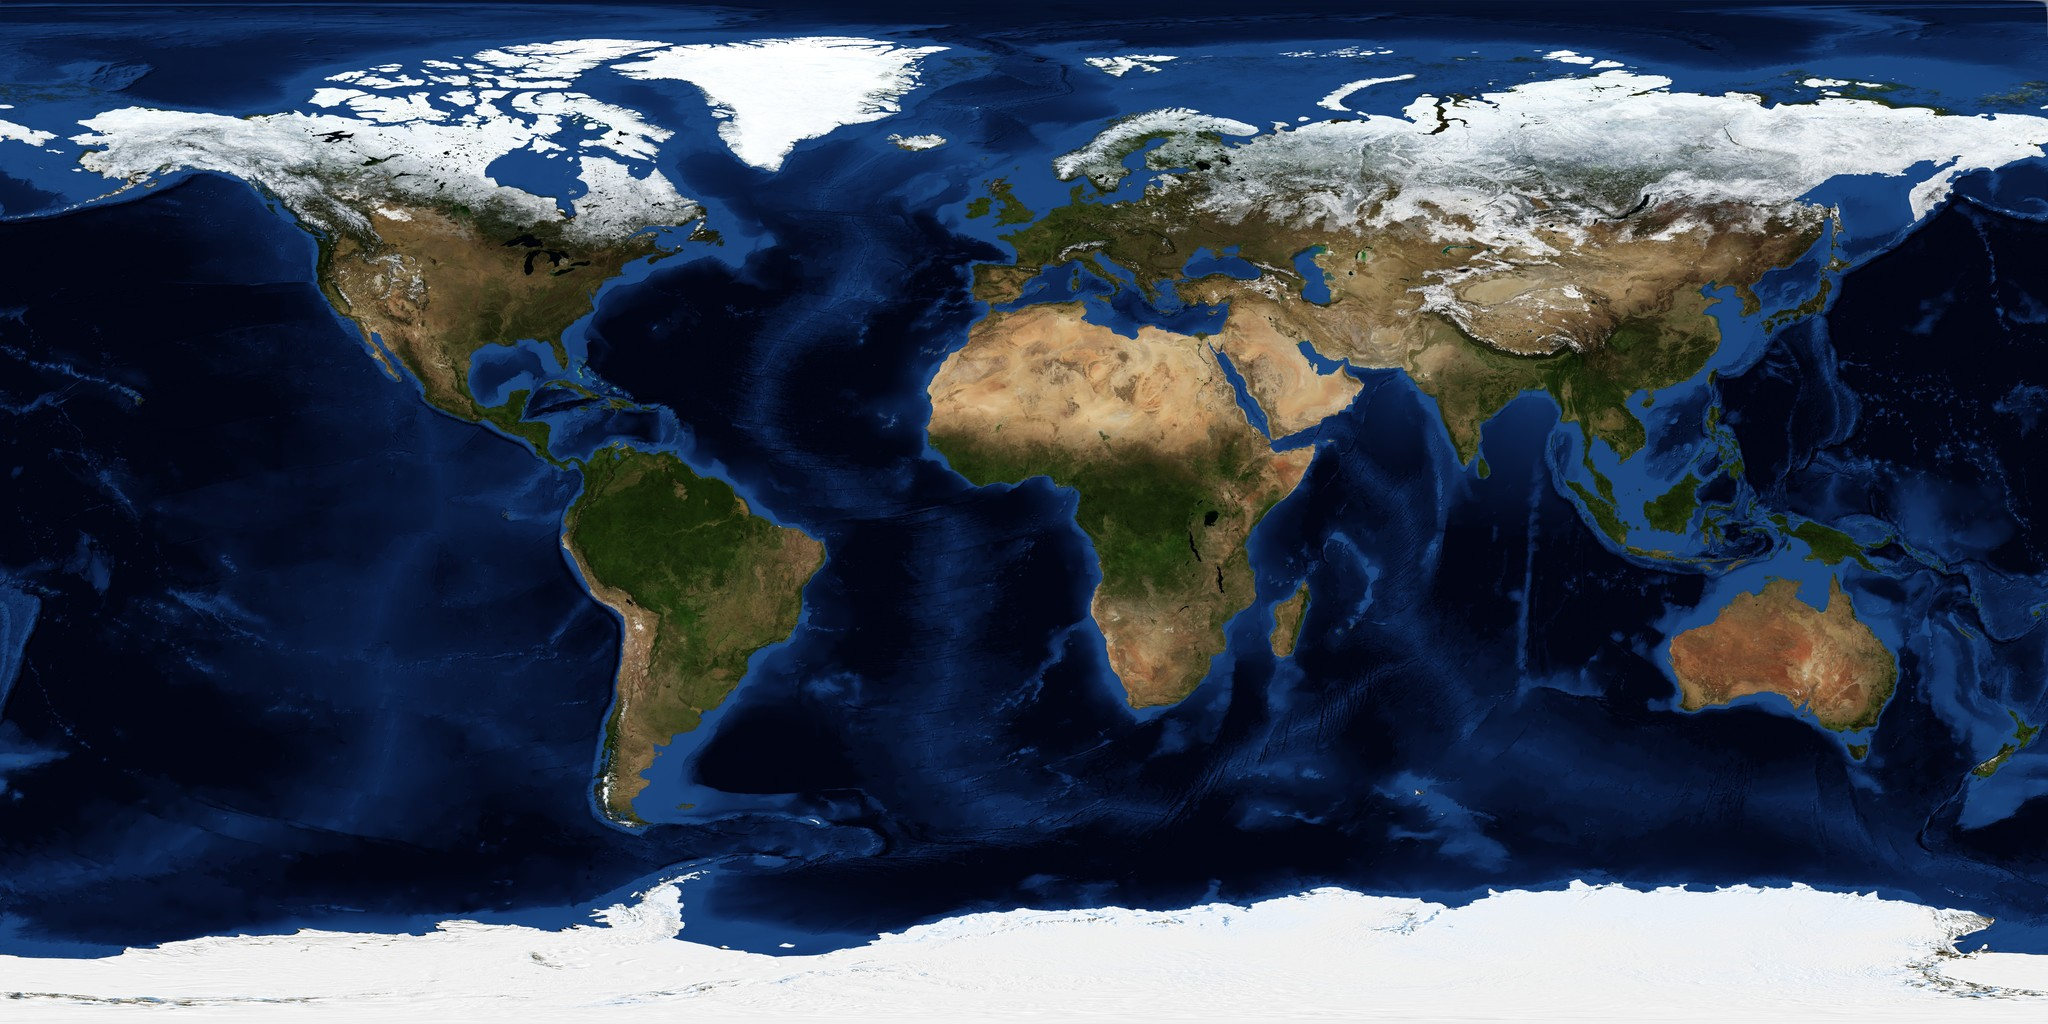
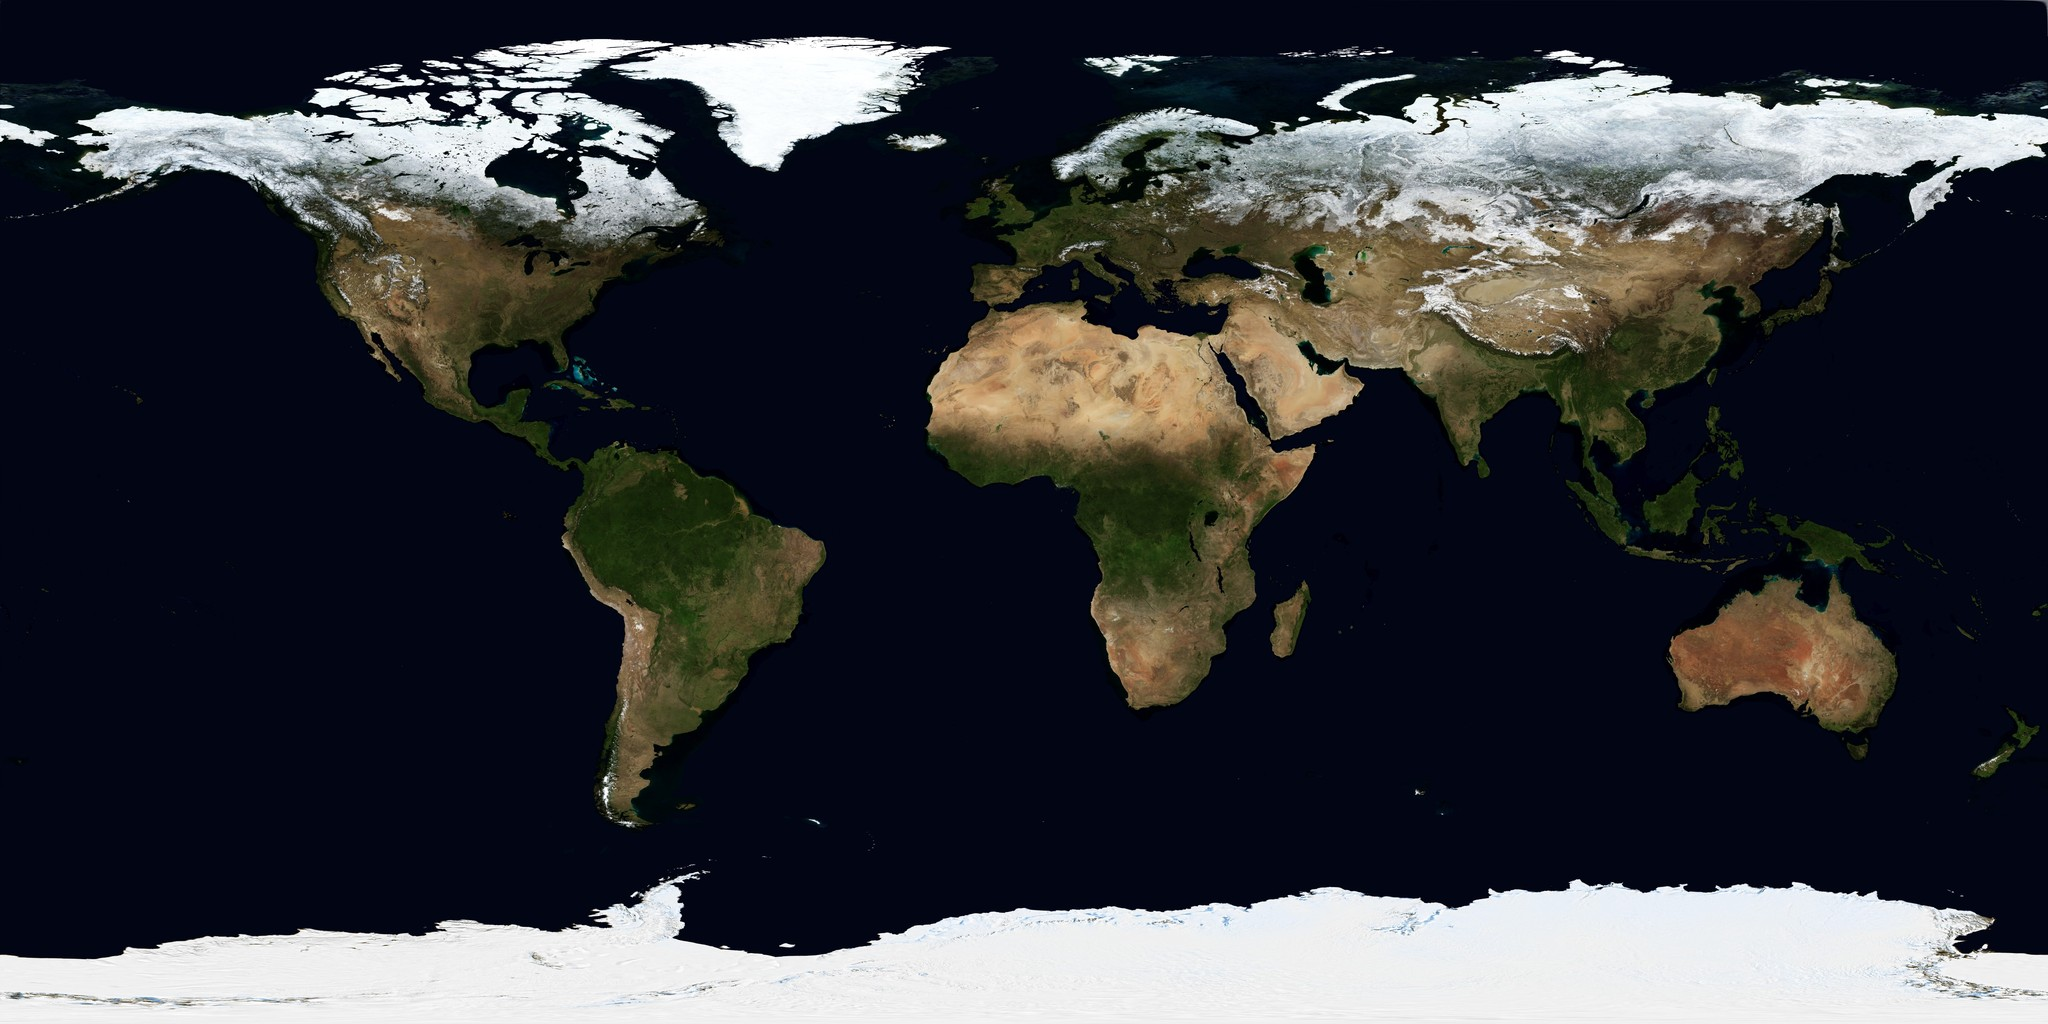
Clouds: broken-cloud coverage, two-stream-consistent lighting, no texel polygons; plain Blue Marble
- Coverage map read as a broken field: a fraction R/0.57 of each texel is cloud of tau >= 10,
  placed where the billow noise exceeds its (1 - f) quantile (CDF measured from the volume).
  Bicubic B-spline lookup; octaves fade in by pixel footprint; edges widen with the footprint.
- Multiple scattering: the 4-octave Wrenninge sum saturated at R ~ 0.22 for any tau
  (measured), so thick clouds were ~3x too dark. Replaced by single scattering plus a diffuse
  source calibrated so a slab reflects tau/(tau + 7.5), the relation that inverted the map
  (verified numerically for tau = 1..30).
- Tile ocean: dark aerial-imagery water is cut out above 30 km so the globe's ocean (with
  glint) shows; no more dark patches while tiles load.
- Day map: Blue Marble NG without relief shading or bathymetry (sea floor is not visible from
  orbit).

diff --git a/web/src/render/clouds.ts b/web/src/render/clouds.ts
@@ -3,16 +3,20 @@
 //
 // - **Where.** Coverage is NASA Blue Marble: Clouds (Visible Earth 57747; MODIS
 //   composite), looked up by body-fixed latitude and longitude so it turns with the
-//   Earth. A tiling 3D Worley noise volume erodes it for structure below the map's
-//   texel size.
+//   Earth, with a B-spline bicubic filter (Sigg & Hadwiger 2005, GPU Gems 2 ch. 20) so the
+//   texels never show as polygons. A tiling 3D Worley noise volume adds billows below the
+//   map's texel size at three scales (60, 15, 4 km), each faded in only where it spans
+//   several pixels (no aliasing from orbit, full detail up close). The modulation is
+//   normalised to unit mean, so each texel keeps the map's reflectance on average.
 // - **Profile.** The base is at 1.5 km. The top rises with coverage, from 3 km (thin
 //   cumulus) to 12 km (deep convection).
 // - **Optics.** Each column's optical depth reproduces the map's reflectance with a
 //   two-stream relation (see cloudSigma), spread over the height profile.
 //   Single-scattering albedo ≈ 1. Phase is a dual-lobe Henyey–Greenstein (g = 0.8 / −0.3).
-// - **Multiple scattering.** Approximated with Wrenninge's octave method (M. Wrenninge et
-//   al., "Oz: The Great and Volumetric", SIGGRAPH 2013 talk): Σ aⁱ σ_s T(bⁱτ) P(cⁱg) with
-//   a = b = c = ½.
+// - **Multiple scattering.** Single scattering exactly, plus a diffuse source calibrated to
+//   two-stream so a column reflects what the map says it does (see the shader). Wrenninge's
+//   4-octave method, used before, saturated at R ≈ 0.22 for any τ (measured), so thick
+//   clouds came out ~3× too dark.
 // - **Sun.** Light comes through the cloud (a short light march) and through the
 //   atmosphere (the transmittance LUT, which also gives the Earth's shadow and reddened
 //   sunsets).
@@ -31,8 +35,8 @@ import { PRE_EXPOSURE } from "./units";
 
 const NOISE_SIZE = 64;
 
-/** Tileable 3D Worley noise (3 octaves, inverted, 0–1), R8. Deterministic. */
-function worleyVolume(n: number): THREE.Data3DTexture {
+/** Tileable 3D Worley noise (3 octaves, inverted, 0–1), R8, and its mean. Deterministic. */
+function worleyVolume(n: number): { tex: THREE.Data3DTexture; mean: number; quant: THREE.DataTexture } {
   const data = new Uint8Array(n * n * n);
   let seed = 1234567;
   const rand = () => ((seed = (seed * 1103515245 + 12345) & 0x7fffffff) / 0x7fffffff);
@@ -65,6 +69,44 @@ function worleyVolume(n: number): THREE.Data3DTexture {
         const f = 0.625 * (1 - worley(u, v, w, octaves[0]!)) + 0.25 * (1 - worley(u, v, w, octaves[1]!)) + 0.125 * (1 - worley(u, v, w, octaves[2]!));
         data[(z * n + y) * n + x] = Math.round(Math.min(1, f) * 255);
       }
+  let sum = 0;
+  for (const v of data) sum += v;
+  // Quantiles of the billow field for the coverage threshold: row 0 the 60 km octave alone,
+  // row 1 the 60/15 km mix (0.6/0.4) used up close. Sampled at random points (trilinear,
+  // tiling); the two scales of one tiling volume are close to independent.
+  const tri = (x: number, y: number, z: number) => {
+    const fx = x * n - 0.5, fy = y * n - 0.5, fz = z * n - 0.5;
+    const x0 = Math.floor(fx), y0 = Math.floor(fy), z0 = Math.floor(fz);
+    const tx = fx - x0, ty = fy - y0, tz = fz - z0;
+    const at = (i: number, j: number, k: number) => data[(((k % n) + n) % n * n + (((j % n) + n) % n)) * n + (((i % n) + n) % n)]! / 255;
+    let v = 0;
+    for (let c = 0; c < 8; c++) {
+      const dx = c & 1, dy = (c >> 1) & 1, dz = c >> 2;
+      v += at(x0 + dx, y0 + dy, z0 + dz) * (dx ? tx : 1 - tx) * (dy ? ty : 1 - ty) * (dz ? tz : 1 - tz);
+    }
+    return v;
+  };
+  const M = 60000;
+  const one: number[] = [], mix: number[] = [];
+  for (let i = 0; i < M; i++) {
+    const x = rand(), y = rand(), z = rand();
+    const a = tri(x, y, z);
+    one.push(a);
+    mix.push(0.6 * a + 0.4 * tri(x * 4, y * 4, z * 4));
+  }
+  one.sort((a, b) => a - b);
+  mix.sort((a, b) => a - b);
+  const W = 256;
+  const cdf = new Float32Array(W * 2 * 4);
+  for (let i = 0; i < W; i++) {
+    // Threshold for cover fraction f = i/(W−1): the (1 − f) quantile.
+    const q = Math.min(M - 1, Math.floor((1 - i / (W - 1)) * (M - 1)));
+    cdf[i * 4] = i === 0 ? 2 : one[q]!;
+    cdf[(W + i) * 4] = i === 0 ? 2 : mix[q]!;
+  }
+  const quant = new THREE.DataTexture(cdf, W, 2, THREE.RGBAFormat, THREE.FloatType);
+  quant.minFilter = quant.magFilter = THREE.LinearFilter;
+  quant.needsUpdate = true;
   const t = new THREE.Data3DTexture(data, n, n, n);
   t.format = THREE.RedFormat;
   t.type = THREE.UnsignedByteType;
@@ -72,7 +114,7 @@ function worleyVolume(n: number): THREE.Data3DTexture {
   t.minFilter = t.magFilter = THREE.LinearFilter;
   t.unpackAlignment = 1;
   t.needsUpdate = true;
-  return t;
+  return { tex: t, mean: sum / data.length / 255, quant };
 }
 
 const FS = /* glsl */ `
@@ -96,6 +138,8 @@ const FS = /* glsl */ `
   uniform float frame;
   uniform float pixelAngle;
   uniform float texelMeters;
+  uniform float noiseMean;
+  uniform sampler2D noiseQuant;
   varying vec2 vUv;
   ${DEPTH_GLSL}
   #define ATMO_LUTS
@@ -103,9 +147,41 @@ const FS = /* glsl */ `
 
   const float CLOUD_BASE = 1500.0;
   const float CLOUD_TOP_MAX = 12000.0;
-  const float NOISE_SCALE = 1.0 / 24000.0; // noise period 24 km
+  // Billow periods (m).
+  const vec3 NOISE_PERIOD = vec3(60000.0, 15000.0, 4000.0);
+  // Broken-cloud model: cloudy parts have τ ≥ TAU_C, reflectance RC = τ/(τ + 7.5) (same
+  // two-stream relation), so a texel of mean reflectance R < RC is a fraction R/RC cloud.
+  const float RC = 0.57;
+
+  // B-spline bicubic lookup with four bilinear taps (Sigg & Hadwiger 2005).
+  vec4 cubicW(float v) {
+    vec4 n = vec4(1.0, 2.0, 3.0, 4.0) - v;
+    vec4 s = n * n * n;
+    float x = s.x, y = s.y - 4.0 * s.x, z = s.z - 4.0 * s.y + 6.0 * s.x;
+    return vec4(x, y, z, 6.0 - x - y - z) / 6.0;
+  }
+  float coverageAt(vec2 uv, float lod) {
+    float l = floor(lod);
+    vec2 size = vec2(textureSize(coverageTex, int(l)));
+    vec2 p = uv * size - 0.5;
+    vec2 f = fract(p);
+    p -= f;
+    vec4 xc = cubicW(f.x), yc = cubicW(f.y);
+    vec4 c = p.xxyy + vec2(-0.5, 1.5).xyxy;
+    vec4 sw = vec4(xc.xz + xc.yw, yc.xz + yc.yw);
+    vec4 off = (c + vec4(xc.yw, yc.yw) / sw) / size.xxyy;
+    float s0 = textureLod(coverageTex, off.xz, l).r, s1 = textureLod(coverageTex, off.yz, l).r;
+    float s2 = textureLod(coverageTex, off.xw, l).r, s3 = textureLod(coverageTex, off.yw, l).r;
+    float sx = sw.x / (sw.x + sw.y), sy = sw.z / (sw.z + sw.w);
+    return mix(mix(s3, s2, sx), mix(s1, s0, sx), sy);
+  }
 
   float hash(vec2 p) { return fract(sin(dot(p, vec2(12.9898, 78.233))) * 43758.5453); }
+
+  // Backscatter of the cloud phase function, π·P(180°)/2 ≈ 0.105 (P from the dual-lobe
+  // HG below, evaluated at μ = −1), and the diffuse decay with light depth.
+  const float SS_PHASE = 0.066776;
+  const float MS_K = 0.15;
 
   float hg(float mu, float g) {
     float g2 = g * g;
@@ -121,32 +197,63 @@ const FS = /* glsl */ `
   // asymmetry 0.85; Bohren 1987, Am. J. Phys. 55:524), hence τ = 7.5·R/(1 − R). The profile
   // distributes τ over the column. "detail" (0–1) adds noise erosion near the camera and
   // fades it out where it would alias.
-  float cloudSigma(vec3 q, float detail, float lod) {
+  // Octave weight: on only where the period spans ≥ ~8 pixels (no aliasing).
+  float octave(float period, float fp) { return smoothstep(4.0, 12.0, period / max(fp, 1.0)); }
+
+  // fp: the pixel footprint (m) at q, for scale-aware detail; fine = include the 4 km octave.
+  // Returns (σ, column τ of the cloudy part).
+  vec2 cloudSample(vec3 q, float fp, float lod, bool fine) {
     float r = length(q);
     float h = r - rGround;
-    if (h < CLOUD_BASE || h > CLOUD_TOP_MAX) return 0.0;
+    if (h < CLOUD_BASE || h > CLOUD_TOP_MAX) return vec2(0.0);
     vec3 bf = toBodyFixed * q;
     float lon = atan(bf.y, bf.x);
     float lat = asin(clamp(bf.z / r, -1.0, 1.0));
     vec2 uv = vec2(lon / (2.0 * PI) + 0.5, lat / PI + 0.5);
     // Explicit LOD: derivatives are undefined inside the march loop.
-    float raw = textureLod(coverageTex, uv, lod).r;
+    float raw = coverageAt(uv, lod);
     // ~0.08 is the clear-sky floor of the composite.
     float R = clamp((raw - 0.08) / 0.88, 0.0, 0.92);
-    if (R <= 0.0) return 0.0;
-    float tau = 7.5 * R / (1.0 - R);
-    float top = CLOUD_BASE + 1000.0 + (CLOUD_TOP_MAX - CLOUD_BASE - 1000.0) * smoothstep(0.1, 0.9, R);
+    if (R <= 0.0) return vec2(0.0);
+    float f = min(R / RC, 1.0);
+    float Rcl = max(R, RC);
+    float tau = 7.5 * Rcl / (1.0 - Rcl);
+    // Where in the texel the cloud is: the billow field above its (1 − f) quantile.
+    float w60 = octave(NOISE_PERIOD.x, fp), w15 = octave(NOISE_PERIOD.y, fp);
+    float cov = f, excess = 0.5;
+    if (w60 > 0.0) {
+      float n60 = texture(noiseTex, bf / NOISE_PERIOD.x).r;
+      float n15 = w15 > 0.0 ? texture(noiseTex, bf / NOISE_PERIOD.y).r : n60;
+      float nb = mix(n60, 0.6 * n60 + 0.4 * n15, w15);
+      float fu = f * (255.0 / 256.0) + 0.5 / 256.0;
+      float th = mix(texture(noiseQuant, vec2(fu, 0.25)).r, texture(noiseQuant, vec2(fu, 0.75)).r, w15);
+      // Edge softness at least the noise's change across a pixel (anti-aliasing).
+      float edge = 0.03 + 0.1 * (1.0 - w15) + 0.6 * fp / mix(NOISE_PERIOD.x, NOISE_PERIOD.y, w15);
+      float c = smoothstep(th - edge, th + edge, nb);
+      cov = mix(f, c, w60);
+      excess = mix(0.5, clamp((nb - th) / max(1.0 - th, 0.05), 0.0, 1.0), w60);
+    }
+    if (cov <= 0.0) return vec2(0.0);
+    // Tops rise with the texel's reflectance and tower where the billows are strongest.
+    float top = CLOUD_BASE + (1000.0 + (CLOUD_TOP_MAX - CLOUD_BASE - 1000.0) * smoothstep(0.1, 0.9, R)) * (0.45 + 1.1 * excess);
+    top = min(top, CLOUD_TOP_MAX);
     float hn = (h - CLOUD_BASE) / (top - CLOUD_BASE);
-    if (hn >= 1.0) return 0.0;
+    if (hn >= 1.0) return vec2(0.0);
     // Profile with unit mean over the column: quick rise, rounded top.
     float profile = smoothstep(0.0, 0.12, hn) * (1.0 - smoothstep(0.45, 1.0, hn)) / 0.58;
-    float sigma = tau / (top - CLOUD_BASE) * profile;
-    if (detail > 0.0) {
-      float n = texture(noiseTex, bf * NOISE_SCALE).r * 0.7 + texture(noiseTex, bf * NOISE_SCALE * 3.7).r * 0.3;
-      sigma *= mix(1.0, clamp(2.2 * n - 0.6, 0.0, 2.0), detail * (1.0 - 0.5 * R));
+    float sigma = tau / (top - CLOUD_BASE) * profile * cov;
+    // Close up: 4 km billows erode the surfaces (unit mean, so τ is kept on average).
+    if (fine) {
+      float w4 = octave(NOISE_PERIOD.z, fp);
+      if (w4 > 0.0) {
+        float n4 = texture(noiseTex, bf / NOISE_PERIOD.z).r;
+        float c4 = 0.6 * noiseMean;
+        sigma *= mix(1.0, max(0.0, (n4 - c4) / (noiseMean - c4)), 0.6 * w4);
+      }
     }
-    return sigma;
+    return vec2(sigma, tau);
   }
+  float cloudSigma(vec3 q, float fp, float lod, bool fine) { return cloudSample(q, fp, lod, fine).x; }
 
   void main() {
     vec4 scene = texture2D(colorTex, vUv);
@@ -197,31 +304,35 @@ const FS = /* glsl */ `
       t += ds;
       if (tc > t1) break;
       vec3 q = o + dir * tc;
-      float detail = 1.0 - smoothstep(20000.0, 120000.0, tc);
+      float fp = tc * pixelAngle;
       // Mip level from the pixel footprint vs. the map's texel size at the equator.
-      float lod = max(log2(tc * pixelAngle / texelMeters), 0.0);
-      float sigma = cloudSigma(q, detail, lod);
+      float lod = max(log2(fp / texelMeters), 0.0);
+      vec2 cs = cloudSample(q, fp, lod, true);
+      float sigma = cs.x, tauCol = cs.y;
       if (sigma <= 0.0) continue;
       // Light march toward the Sun through the cloud.
       float od = 0.0;
       float lds = 600.0;
       for (int j = 0; j < 8; j++) {
         if (j >= lightSteps) break;
-        od += cloudSigma(q + sunDir * (lds * (float(j) + 0.5)), detail, lod) * lds;
+        od += cloudSigma(q + sunDir * (lds * (float(j) + 0.5)), fp, lod, false) * lds;
         lds *= 1.6;
       }
       float rq = length(q);
       vec3 tAtm = transmittanceToTop(rq, dot(q, sunDir) / rq);
-      // Wrenninge multiple-scattering octaves.
-      float ms = 0.0;
-      float a = 1.0, b = 1.0, c = 1.0;
-      for (int k = 0; k < 4; k++) {
-        ms += a * exp(-b * od) * phase(mu, c);
-        a *= 0.5; b *= 0.5; c *= 0.5;
-      }
+      // Single scattering (ϖ ≈ 1) plus a diffuse multiple-scattering source sized so that a
+      // plane-parallel column of optical depth τ reflects R = τ/(τ + 7.5), the same two-stream
+      // relation that inverted the map (sun and view at zenith; Bohren 1987). For a slab,
+      // ∫e^(−t)·A·e^(−k·t)dt = A(1 − e^(−(1+k)τ))/(1+k) must supply R − SS, with
+      // SS = π·P(180°)·(1 − e^(−2τ))/2. The e^(−k·od) factor (k = 0.15) darkens cloud
+      // sides and bases facing away from the Sun.
+      float Rcol = tauCol / (tauCol + 7.5);
+      float SS = PI * SS_PHASE * (1.0 - exp(-2.0 * tauCol)) * 0.5;
+      float A = max(Rcol - SS, 0.0) * (1.0 + MS_K) / max(1.0 - exp(-(1.0 + MS_K) * tauCol), 1e-4);
+      float src = PI * phase(mu, 1.0) * exp(-od) + A * exp(-MS_K * od);
       // Skylight: a few percent of the attenuated sunlight, isotropic.
-      vec3 ambient = tAtm * 0.035 + vec3(0.004, 0.006, 0.01) * smoothstep(-0.1, 0.2, dot(q / rq, sunDir));
-      vec3 S = PI * sunE * (tAtm * ms + ambient);
+      vec3 ambient = PI * (tAtm * 0.035 + vec3(0.004, 0.006, 0.01) * smoothstep(-0.1, 0.2, dot(q / rq, sunDir)));
+      vec3 S = sunE * (tAtm * src + ambient);
       float stepT = exp(-sigma * ds);
       // Energy-conserving integration over the step (Hillaire 2015, "Physically based
       // and unified volumetric rendering in Frostbite").
@@ -250,13 +361,16 @@ export class CloudPass {
     coverage.wrapT = THREE.ClampToEdgeWrapping;
     coverage.colorSpace = THREE.NoColorSpace;
     coverage.anisotropy = 8;
+    const noise = worleyVolume(NOISE_SIZE);
     this.mat = new THREE.ShaderMaterial({
       glslVersion: THREE.GLSL3,
       uniforms: {
         colorTex: { value: null },
         depthTex: { value: null },
         coverageTex: { value: coverage },
-        noiseTex: { value: worleyVolume(NOISE_SIZE) },
+        noiseTex: { value: noise.tex },
+        noiseMean: { value: noise.mean },
+        noiseQuant: { value: noise.quant },
         transmittanceLut: { value: null },
         multiscatterLut: { value: null },
         camWorld: { value: new THREE.Matrix4() },

diff --git a/web/src/render/earthTiles.ts b/web/src/render/earthTiles.ts
@@ -101,6 +101,11 @@ class BingCredits {
   }
 }
 
+/** Linear luminance below which blue-dominant imagery counts as open ocean. */
+const OCEAN_MAX_LUM = 0.05;
+/** Camera altitude (m) above which tile ocean is cut out to show the globe's ocean. */
+const OCEAN_CUT_ALT = 30_000;
+
 export class EarthTiles {
   /** Earth-centred, body-fixed anchor (matrix set every frame). */
   readonly anchor = new THREE.Group();
@@ -110,6 +115,7 @@ export class EarthTiles {
     sunDir: { value: new THREE.Vector3(1, 0, 0) },
     sunE: { value: 1 },
     opacity: { value: 1 },
+    oceanCut: { value: 0 },
   };
   private materials = new Set<THREE.ShaderMaterial>();
   /** Current blend weight (0 = hidden, no requests). */
@@ -178,6 +184,32 @@ export class EarthTiles {
         m.roughness = 1;
         m.metalness = 0;
       }
+      // Open ocean: the aerial imagery's water is a flat dark blue, far darker than the
+      // globe's ocean (Blue Marble colour plus the GGX Sun glint) and patchy while tiles
+      // load. From high up, let the globe show through there: discard dark, blue-dominant
+      // texels after the overlay is applied. (Classification by colour, not height: ion
+      // terrain is ellipsoidal, so the sea surface sits at the geoid, ±100 m.)
+      const prev = m.onBeforeCompile;
+      const oceanCut = this.shared.oceanCut;
+      m.onBeforeCompile = (sh, r) => {
+        prev.call(m, sh, r);
+        sh.uniforms.oceanCut = oceanCut;
+        sh.fragmentShader = sh.fragmentShader
+          .replace("#include <common>", "#include <common>\nuniform float oceanCut;")
+          .replace(
+            "#include <alphamap_fragment>",
+            `#include <alphamap_fragment>
+            if (oceanCut > 0.5) {
+              vec3 oc = diffuseColor.rgb;
+              float ol = dot(oc, vec3(0.2126, 0.7152, 0.0722));
+              if (ol < OCEAN_MAX_LUM && oc.b > oc.g && oc.g >= 0.8 * oc.r) discard;
+            }`,
+          );
+      };
+      const key = m.customProgramCacheKey.bind(m);
+      m.customProgramCacheKey = () => key() + "|oceanCut";
+      m.defines = { ...(m.defines ?? {}), OCEAN_MAX_LUM: OCEAN_MAX_LUM.toFixed(4) };
+      m.needsUpdate = true;
       this.terrainMaterials.add(m);
     });
   }
@@ -239,6 +271,9 @@ export class EarthTiles {
     this.shared.sunDir.value.copy(sunDir);
     this.shared.sunE.value = sunE;
     this.shared.opacity.value = a;
+    // Below ~30 km the 2 km globe inset would show as a step at the coast: keep the
+    // imagery's water there.
+    this.shared.oceanCut.value = altitude > OCEAN_CUT_ALT ? 1 : 0;
     for (const m of this.materials) {
       m.transparent = a < 1;
     }

diff --git a/tools/assets/prepare_textures.py b/tools/assets/prepare_textures.py
@@ -3,7 +3,8 @@
     python -I tools/assets/prepare_textures.py <download_dir> <out_dir> [--full]
 
 Inputs (download_dir):
-  world.topo.bathy.200411.3x5400x2700.jpg   Blue Marble NG, November 2004
+  world.200411.3x5400x2700.jpg              Blue Marble NG, November 2004 (no relief shading,
+                                            no bathymetry: the ocean looks as from orbit)
   BlackMarble_2016_3km.jpg                  Black Marble 2016 night lights (color)
   milkyway_2020_4k.exr                      NASA SVS Deep Star Maps 2020, Milky Way without stars
 Outputs (out_dir):
@@ -26,7 +27,7 @@ def save(img, name, q=90):
     img.save(f"{out}/{name}", quality=q, optimize=True, progressive=True)
     print("wrote", name, img.size)
 
-day = Image.open(f"{src}/world.topo.bathy.200411.3x5400x2700.jpg").convert("RGB")
+day = Image.open(f"{src}/world.200411.3x5400x2700.jpg").convert("RGB")
 save(day.resize((2048, 1024), Image.LANCZOS), "earth_day_2048.jpg")
 if full:
     save(day, "earth_day_5400.jpg", 92)

diff --git a/CREDITS.md b/CREDITS.md
@@ -74,8 +74,8 @@ Used offline by `tools/ephem-build` to produce the shipped `.rseph` Chebyshev fi
 - **License:** U.S. Government work (NRL), public domain in the U.S. The C translation by D. Brodowski was **not** used: it carries no license grant.
 - **Retrieved:** 2026-10-11
 
-### Earth day texture: Blue Marble Next Generation (November 2004, topography + bathymetry)
-- **Source:** https://eoimages.gsfc.nasa.gov/images/imagerecords/73000/73884/world.topo.bathy.200411.3x5400x2700.jpg (NASA Earth Observatory / Visible Earth)
+### Earth day texture: Blue Marble Next Generation (November 2004, no relief shading or bathymetry)
+- **Source:** https://eoimages.gsfc.nasa.gov/images/imagerecords/74000/74192/world.200411.3x5400x2700.jpg (NASA Earth Observatory / Visible Earth). Replaced the topography + bathymetry variant on 2026-10-12: its shaded sea floor is not visible from orbit.
 - **Reference:** R. Stöckli et al. (2005), "The Blue Marble Next Generation: A true color earth dataset including seasonal dynamics from MODIS", NASA Earth Observatory.
 - **License:** NASA imagery, free to use. Credit "NASA Earth Observatory".
 - **Derived files:** `web/public/assets/earth_day_2048.jpg` (committed), `earth_day_5400.jpg` (`scripts/fetch-assets.sh`)
